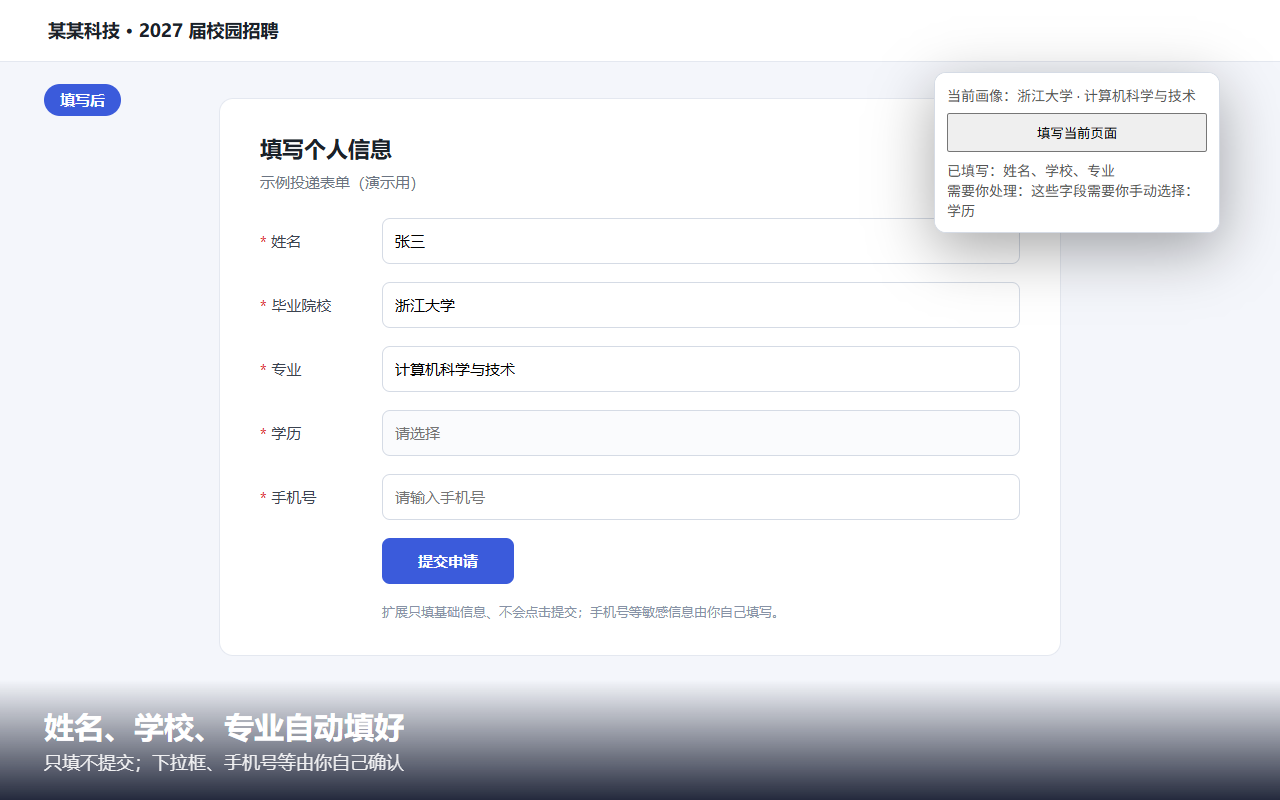
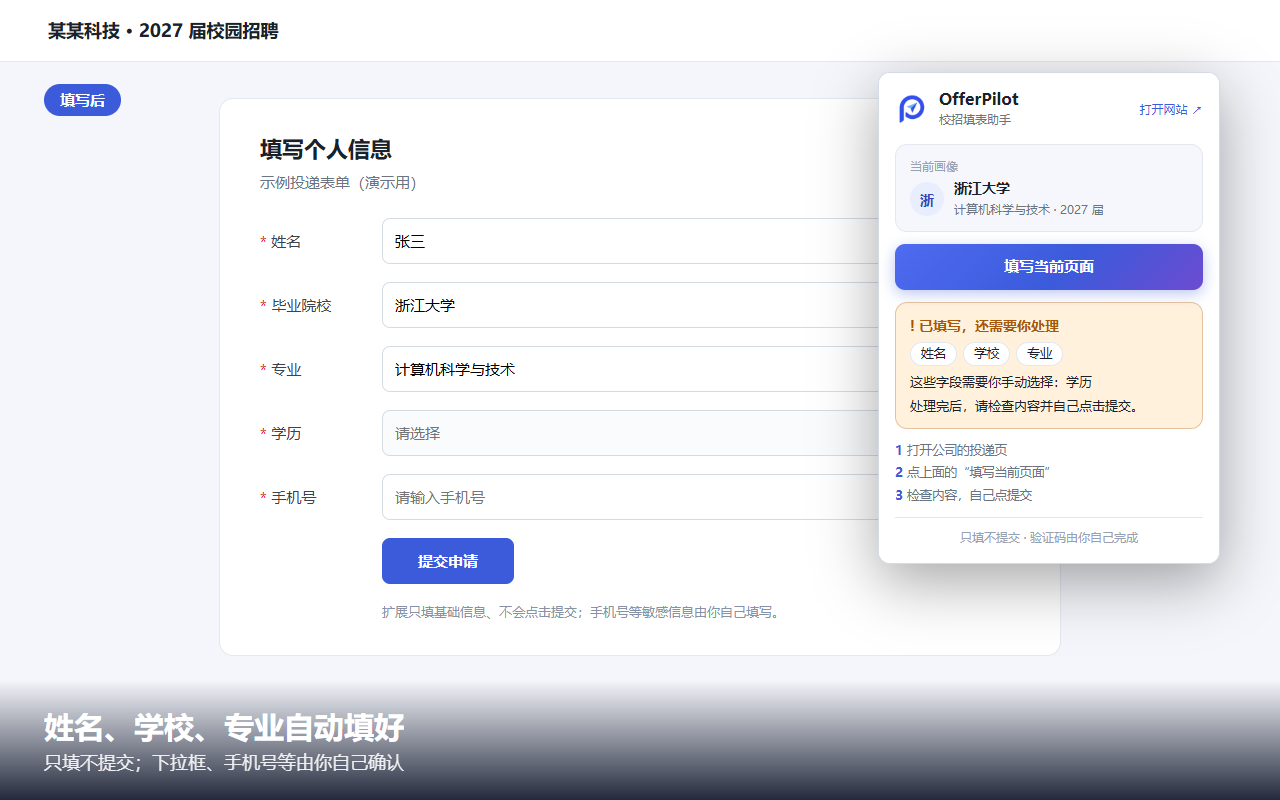
Extension: redesigned popup (brand header, profile card, primary action, status cards, dark mode); refreshed store screenshots

Changed region(s): [[0.6562, 0.0938, 0.9688, 0.75]]

diff --git a/apps/extension/entrypoints/popup/index.html b/apps/extension/entrypoints/popup/index.html
@@ -2,23 +2,114 @@
 <html lang="zh-CN">
   <head>
     <meta charset="UTF-8" />
+    <meta name="viewport" content="width=device-width, initial-scale=1" />
     <title>OfferPilot</title>
     <style>
-      body { width: 280px; padding: 12px; font: 14px system-ui, sans-serif; color: #1c2129; }
-      button { width: 100%; padding: 8px; cursor: pointer; }
-      button:disabled { cursor: not-allowed; opacity: 0.6; }
-      #demo { margin-top: 8px; background: #fff; border: 1px dashed #8792a6; border-radius: 6px; }
-      #demo-note { margin: 4px 0 0; color: #8792a6; font-size: 12px; }
-      #result { margin-top: 8px; color: #555; white-space: pre-wrap; }
+      :root {
+        --bg: #ffffff; --surface: #f5f7fc; --text: #1c2129; --muted: #6b7482; --faint: #98a1b1; --line: #e3e7ef;
+        --brand: #3b5bdb; --brand-strong: #2f49b8; --brand-soft: #e9eeff;
+        --ok: #178a4c; --ok-soft: #e4f6ec; --warn: #a8570a; --warn-soft: #fff1dc; --err: #c0392b; --err-soft: #fde8e6;
+      }
+      @media (prefers-color-scheme: dark) {
+        :root {
+          --bg: #171b25; --surface: #1f2431; --text: #e9edf5; --muted: #a3adc0; --faint: #7a8599; --line: #2c3344;
+          --brand: #7d98ff; --brand-strong: #a3b6ff; --brand-soft: #232d54;
+          --ok: #5fd593; --ok-soft: #14312a; --warn: #f2b765; --warn-soft: #3a2c14; --err: #ff8a7a; --err-soft: #3d1f1c;
+        }
+      }
+      * { box-sizing: border-box; }
+      body { width: 340px; margin: 0; padding: 16px; background: var(--bg); color: var(--text);
+        font: 14px/1.55 -apple-system, BlinkMacSystemFont, "PingFang SC", "Microsoft YaHei", "Segoe UI", sans-serif; }
       [hidden] { display: none !important; }
+
+      header { display: flex; align-items: center; gap: 10px; margin-bottom: 14px; }
+      header img { width: 34px; height: 34px; border-radius: 9px; }
+      header b { display: block; font-size: 16px; line-height: 1.2; }
+      header span { color: var(--muted); font-size: 12px; }
+      header a { margin-left: auto; font-size: 12px; color: var(--brand); text-decoration: none; }
+      header a:hover { text-decoration: underline; }
+
+      .card { background: var(--surface); border: 1px solid var(--line); border-radius: 12px; padding: 12px 14px; }
+      .label { color: var(--faint); font-size: 12px; margin-bottom: 4px; }
+      .who { display: flex; align-items: center; gap: 10px; }
+      .avatar { flex: none; width: 34px; height: 34px; border-radius: 50%; display: grid; place-items: center;
+        background: var(--brand-soft); color: var(--brand-strong); font-weight: 700; }
+      .who b { display: block; line-height: 1.3; overflow-wrap: anywhere; }
+      .who small { color: var(--muted); font-size: 12px; }
+      .demo-tag { display: inline-block; margin-left: 6px; padding: 0 6px; border-radius: 5px; background: var(--warn-soft);
+        color: var(--warn); font-size: 11px; font-weight: 600; vertical-align: 1px; }
+
+      .empty { text-align: center; padding: 4px 0 2px; }
+      .empty .big { font-size: 26px; line-height: 1; margin-bottom: 6px; }
+      .empty p { margin: 0 0 10px; color: var(--muted); font-size: 13px; }
+
+      button { font: inherit; cursor: pointer; border-radius: 10px; transition: background .15s, border-color .15s, transform .05s; }
+      button:active:not(:disabled) { transform: translateY(1px); }
+      button:disabled { cursor: not-allowed; opacity: .6; }
+      .primary { width: 100%; margin-top: 12px; padding: 11px 14px; border: 0; color: #fff; font-weight: 650; font-size: 15px;
+        background: linear-gradient(135deg, #4f6bf0, #3b5bdb 55%, #6d4bd0); box-shadow: 0 4px 14px rgba(59, 91, 219, .35); }
+      .primary:hover:not(:disabled) { filter: brightness(1.06); }
+      .ghost { width: 100%; padding: 8px 12px; border: 1px dashed var(--faint); background: transparent; color: var(--text); font-size: 13px; }
+      .ghost:hover { border-color: var(--brand); color: var(--brand); }
+      .link { display: block; width: 100%; padding: 8px 12px; margin-bottom: 8px; border-radius: 10px; border: 1px solid var(--brand);
+        color: var(--brand); text-align: center; text-decoration: none; font-size: 13px; font-weight: 600; }
+      .link:hover { background: var(--brand-soft); }
+
+      .result { margin-top: 12px; border-radius: 12px; padding: 12px 14px; border: 1px solid transparent; }
+      .result.ok { background: var(--ok-soft); border-color: color-mix(in srgb, var(--ok) 30%, transparent); }
+      .result.warn { background: var(--warn-soft); border-color: color-mix(in srgb, var(--warn) 30%, transparent); }
+      .result.err { background: var(--err-soft); border-color: color-mix(in srgb, var(--err) 30%, transparent); }
+      .result h2 { margin: 0 0 6px; font-size: 14px; display: flex; align-items: center; gap: 6px; }
+      .result.ok h2 { color: var(--ok); } .result.warn h2 { color: var(--warn); } .result.err h2 { color: var(--err); }
+      .chips { display: flex; flex-wrap: wrap; gap: 6px; margin-bottom: 6px; }
+      .chip { padding: 1px 10px; border-radius: 999px; background: var(--bg); border: 1px solid var(--line); font-size: 12.5px; }
+      .result p { margin: 4px 0 0; font-size: 13px; color: var(--text); overflow-wrap: anywhere; }
+
+      .steps { margin: 12px 0 0; padding: 0; list-style: none; color: var(--muted); font-size: 12.5px; display: grid; gap: 3px; }
+      .steps b { color: var(--brand); margin-right: 4px; }
+      footer { margin-top: 12px; padding-top: 10px; border-top: 1px solid var(--line); color: var(--faint); font-size: 12px; text-align: center; }
     </style>
   </head>
   <body>
-    <div id="who" style="margin-bottom:8px;color:#555"></div>
-    <button id="fill">填写当前页面</button>
-    <button id="demo" hidden>用示例画像试用</button>
-    <p id="demo-note" hidden>没有账号也能体验：载入一份虚构的示例画像，仅用于试用。</p>
-    <div id="result"></div>
+    <header>
+      <img src="/icon/48.png" alt="" />
+      <div>
+        <b>OfferPilot</b>
+        <span>校招填表助手</span>
+      </div>
+      <a id="site" href="#" target="_blank" rel="noreferrer">打开网站 ↗</a>
+    </header>
+
+    <section class="card" aria-label="当前画像">
+      <div id="profile" hidden>
+        <div class="label">当前画像</div>
+        <div class="who">
+          <div class="avatar" id="avatar"></div>
+          <div>
+            <b id="school"></b>
+            <small id="major"></small>
+          </div>
+        </div>
+      </div>
+      <div id="empty" class="empty" hidden>
+        <div class="big" aria-hidden="true">📋</div>
+        <p>还没有画像。先去网站同步，或者用示例画像体验一下。</p>
+        <a id="sync" class="link" href="#" target="_blank" rel="noreferrer">去 OfferPilot 同步我的画像</a>
+        <button id="demo" class="ghost">用示例画像试用（虚构数据）</button>
+      </div>
+    </section>
+
+    <button id="fill" class="primary">填写当前页面</button>
+
+    <section id="result" class="result" role="status" aria-live="polite" hidden></section>
+
+    <ul class="steps" id="steps">
+      <li><b>1</b>打开公司的投递页</li>
+      <li><b>2</b>点上面的“填写当前页面”</li>
+      <li><b>3</b>检查内容，自己点提交</li>
+    </ul>
+
+    <footer>只填不提交 · 验证码由你自己完成</footer>
     <script type="module" src="./main.ts"></script>
   </body>
 </html>

diff --git a/apps/extension/entrypoints/popup/main.ts b/apps/extension/entrypoints/popup/main.ts
@@ -1,15 +1,20 @@
 import { Profile } from "@offerpilot/shared";
 import type { FillOutcome } from "../../adapters/types";
 
-const result = document.getElementById("result")!;
-const who = document.getElementById("who")!;
-const fillBtn = document.getElementById("fill") as HTMLButtonElement;
-const demoBtn = document.getElementById("demo") as HTMLButtonElement;
-const demoNote = document.getElementById("demo-note")!;
+const $ = <T extends HTMLElement>(id: string) => document.getElementById(id) as T;
+const fillBtn = $<HTMLButtonElement>("fill");
+const demoBtn = $<HTMLButtonElement>("demo");
+const resultBox = $("result");
+
+// 网站地址：商店版构建时由 WXT_WEB_ORIGIN 指定，本地开发默认 localhost
+const SITE = String(import.meta.env.WXT_WEB_ORIGIN || "http://localhost:3000").replace(/\/$/, "");
+$<HTMLAnchorElement>("site").href = `${SITE}/app`;
+$<HTMLAnchorElement>("sync").href = `${SITE}/app`;
 
 /** 体验用的示例画像：明显是虚构的，不要拿去填真实的投递页。 */
+const DEMO_NAME = "张三（示例）";
 const DEMO_PROFILE: Profile = {
-  name: "张三（示例）",
+  name: DEMO_NAME,
   school: "示例大学",
   schoolTags: [],
   major: "计算机科学与技术",
@@ -27,47 +32,95 @@ async function loadProfile(): Promise<Profile | null> {
   return parsed.success ? parsed.data : null;
 }
 
-function describe(o: FillOutcome): string {
-  switch (o.status) {
-    case "filled":
-      return `已填写：${o.filledFields.join("、") || "（无）"}\n请检查后，自己点击提交。`;
-    case "needs_user":
-      return `已填写：${o.filledFields.join("、") || "（无）"}\n需要你处理：${o.reason}`;
-    case "failed":
-      return `没有填写：${o.error}`;
-  }
+function setText(id: string, text: string) {
+  $(id).textContent = text;
 }
 
 async function refresh() {
   const p = await loadProfile();
-  who.textContent = p ? `当前画像：${p.school} · ${p.major}` : "还没有画像：请先在 OfferPilot 网页端点“同步到浏览器扩展”。";
-  // 没有画像时才提供示例入口，避免覆盖用户真实同步过来的画像
-  demoBtn.hidden = !!p;
-  demoNote.hidden = !!p;
+  $("profile").hidden = !p;
+  $("empty").hidden = !!p;
+  if (!p) return;
+  const isDemo = p.name === DEMO_NAME;
+  setText("avatar", (p.school[0] ?? "?").toUpperCase());
+  const school = $("school");
+  school.textContent = p.school;
+  if (isDemo) {
+    const tag = document.createElement("span");
+    tag.className = "demo-tag";
+    tag.textContent = "示例";
+    school.append(tag);
+  }
+  setText("major", [p.major, `${p.graduationYear} 届`].filter(Boolean).join(" · "));
+}
+
+/** 把填表结果画成状态卡片：成功 / 需要你处理 / 没有填写。 */
+function render(o: FillOutcome) {
+  resultBox.hidden = false;
+  resultBox.className = `result ${o.status === "filled" ? "ok" : o.status === "needs_user" ? "warn" : "err"}`;
+  resultBox.replaceChildren();
+
+  const h = document.createElement("h2");
+  h.textContent = o.status === "filled" ? "✓ 已填写" : o.status === "needs_user" ? "! 已填写，还需要你处理" : "✕ 没有填写";
+  resultBox.append(h);
+
+  if (o.status !== "failed" && o.filledFields.length) {
+    const chips = document.createElement("div");
+    chips.className = "chips";
+    for (const f of o.filledFields) {
+      const c = document.createElement("span");
+      c.className = "chip";
+      c.textContent = f;
+      chips.append(c);
+    }
+    resultBox.append(chips);
+  }
+  const note = document.createElement("p");
+  note.textContent =
+    o.status === "filled" ? "请检查填好的内容，然后自己点击提交。" : o.status === "needs_user" ? o.reason : o.error;
+  resultBox.append(note);
+  if (o.status === "needs_user") {
+    const more = document.createElement("p");
+    more.textContent = "处理完后，请检查内容并自己点击提交。";
+    resultBox.append(more);
+  }
 }
 
 void refresh();
 
+// 填表脚本跑完后会把结果发回来；弹窗开着时随时显示（点击流程和自动化测试都走这里）
+browser.runtime.onMessage.addListener((m: unknown) => {
+  const msg = m as { type?: string; outcome?: FillOutcome };
+  if (msg.type === "offerpilot:result" && msg.outcome) render(msg.outcome);
+});
+
 demoBtn.addEventListener("click", async () => {
   await browser.storage.local.set({ profile: DEMO_PROFILE });
-  result.textContent = "已载入示例画像（虚构的）。现在打开一个投递表单（例如 OfferPilot 网站的“示例表单”页），再点“填写当前页面”。";
   await refresh();
+  render({ status: "filled", filledFields: [] });
+  resultBox.className = "result ok";
+  resultBox.replaceChildren();
+  const h = document.createElement("h2");
+  h.textContent = "✓ 已载入示例画像（虚构的）";
+  const p = document.createElement("p");
+  p.textContent = "现在打开一个投递表单（例如 OfferPilot 网站的“示例表单”页），再点“填写当前页面”。";
+  resultBox.append(h, p);
 });
 
 fillBtn.addEventListener("click", async () => {
   const profile = await loadProfile();
   if (!profile) {
-    result.textContent = "还没有画像，请先在 OfferPilot 网页端同步，或点下面的“用示例画像试用”。";
+    render({ status: "failed", error: "还没有画像：请先在网站同步画像，或点“用示例画像试用”。" });
     return;
   }
   const [tab] = await browser.tabs.query({ active: true, currentWindow: true });
   if (!tab?.id || !/^https?:/i.test(tab.url ?? "")) {
-    result.textContent = "当前页面不支持填写（浏览器内置页面或本地文件）。请打开公司的投递页后再试。";
+    render({ status: "failed", error: "当前页面不支持填写（浏览器内置页面或本地文件）。请打开公司的投递页后再试。" });
     return;
   }
 
   fillBtn.disabled = true;
-  result.textContent = "填写中…";
+  fillBtn.textContent = "填写中…";
   // 填表脚本跑完后会发回结果；10 秒没有回报就提示失败
   const outcome = await new Promise<FillOutcome>((resolve) => {
     const timer = setTimeout(() => {
@@ -90,6 +143,7 @@ fillBtn.addEventListener("click", async () => {
         resolve({ status: "failed", error: "无法在当前页面运行（可能是受限页面）" });
       });
   });
-  result.textContent = describe(outcome);
+  render(outcome);
   fillBtn.disabled = false;
+  fillBtn.textContent = "填写当前页面";
 });
